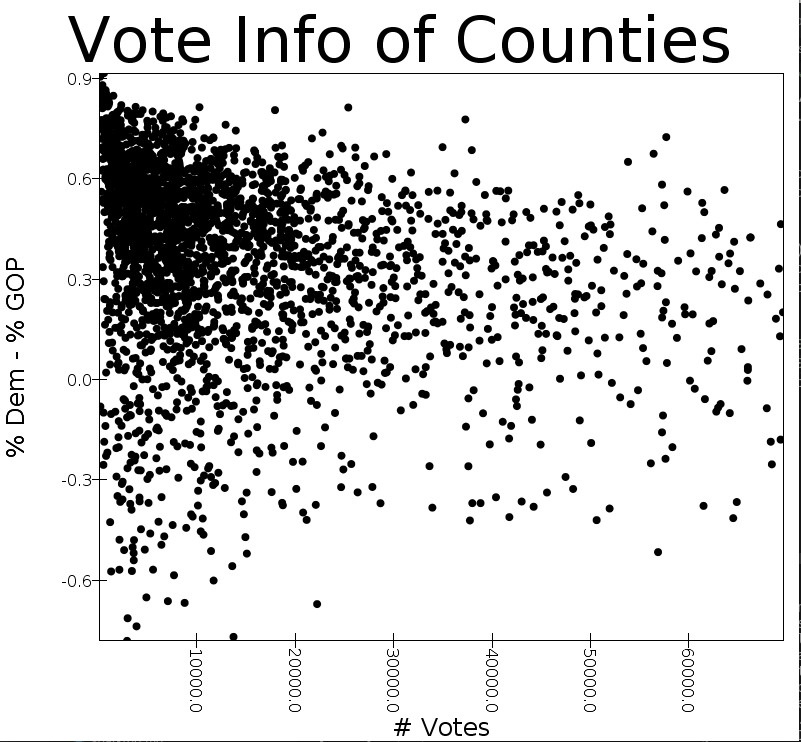
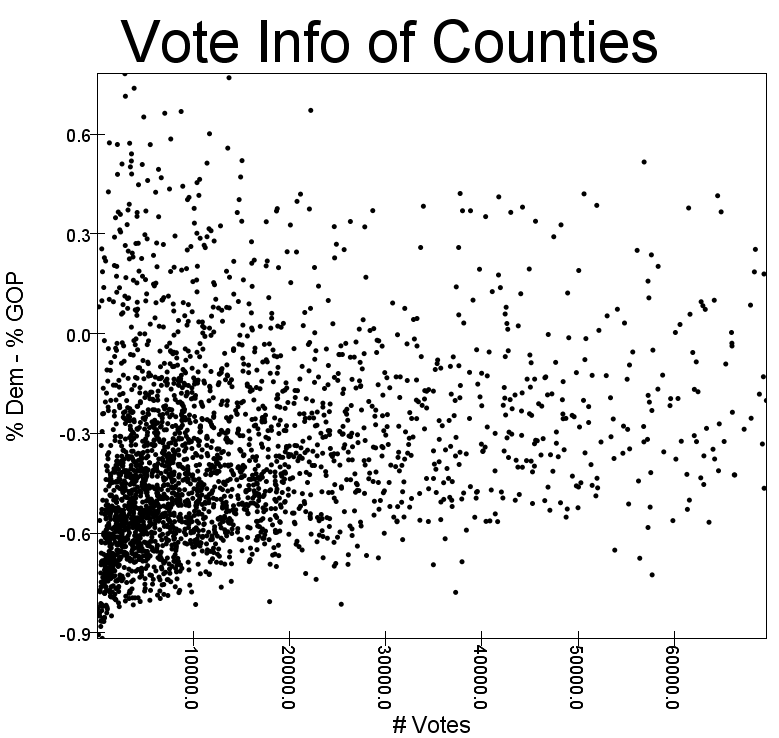
bruh

diff --git a/sparksql2.md b/sparksql2.md
@@ -17,11 +17,32 @@ That's not too helpful, so here's another with total votes < 70000
 
 ![awufhe](src/main/scala/sparksql2/less70000.png)
 
-4. Need to fix and upload this 
+4. 
+
+![aoiwfji](src/main/scala/num4.png)
 
 5. Unemployment Histograms
 
-    * From left to right, the boxes are in chronological order. BDF The first row is metropolitan areas, the second is micropolitan areas, and the third is counties and equivalents.
+    * From left to right, the boxes are in chronological order. The first row is metropolitan areas, the second is micropolitan areas, and the third is counties and equivalents.
     * P.S., you should look at how Tony coded this graph. 
 
 ![ajfwie](src/main/scala/sparksql2/histoGrid.PNG)
+
+6. Correlation between votes and unemployment
+
+    * Correlation of 0.06. To calculate this I used the M13 value, the yearly average of unemployment. Although it does include the month of December, which happened after the election, I thought it would provide a more accurate picture of the correlation. A result of 0.051 implies that the unemployment rate 
+    didn't really influence the election. This makes sense since the economy was pretty stable by Nov. 2016; voters cared more about other matters.  
+
+![aiwefh](src/main/scala/sparksql2/plot2.png)
+
+This shows that less populated areas tend to vote Republican. It also shows that the unemployment rate was not a significant factor in this 
+
+election. 
+
+7. Relationships
+
+    * Based on the results from all the previous questions, it seems like the unemployment rates did not influence the election. The number of votes, however, was correlated with the percentage of democratic votes. In general, larger populations voted more democratic. This makes sense, as metropolitan citizens tend to be more democratic and rural citizens do. The plot from question two shows how smaller populations lean Republican. Here is another plot to back me up:
+
+![faiwejf](src/main/scala/sparksql2/rateVote.png)
+
+As you can see, there is not much of a trend between unemployment rate and political lean.
